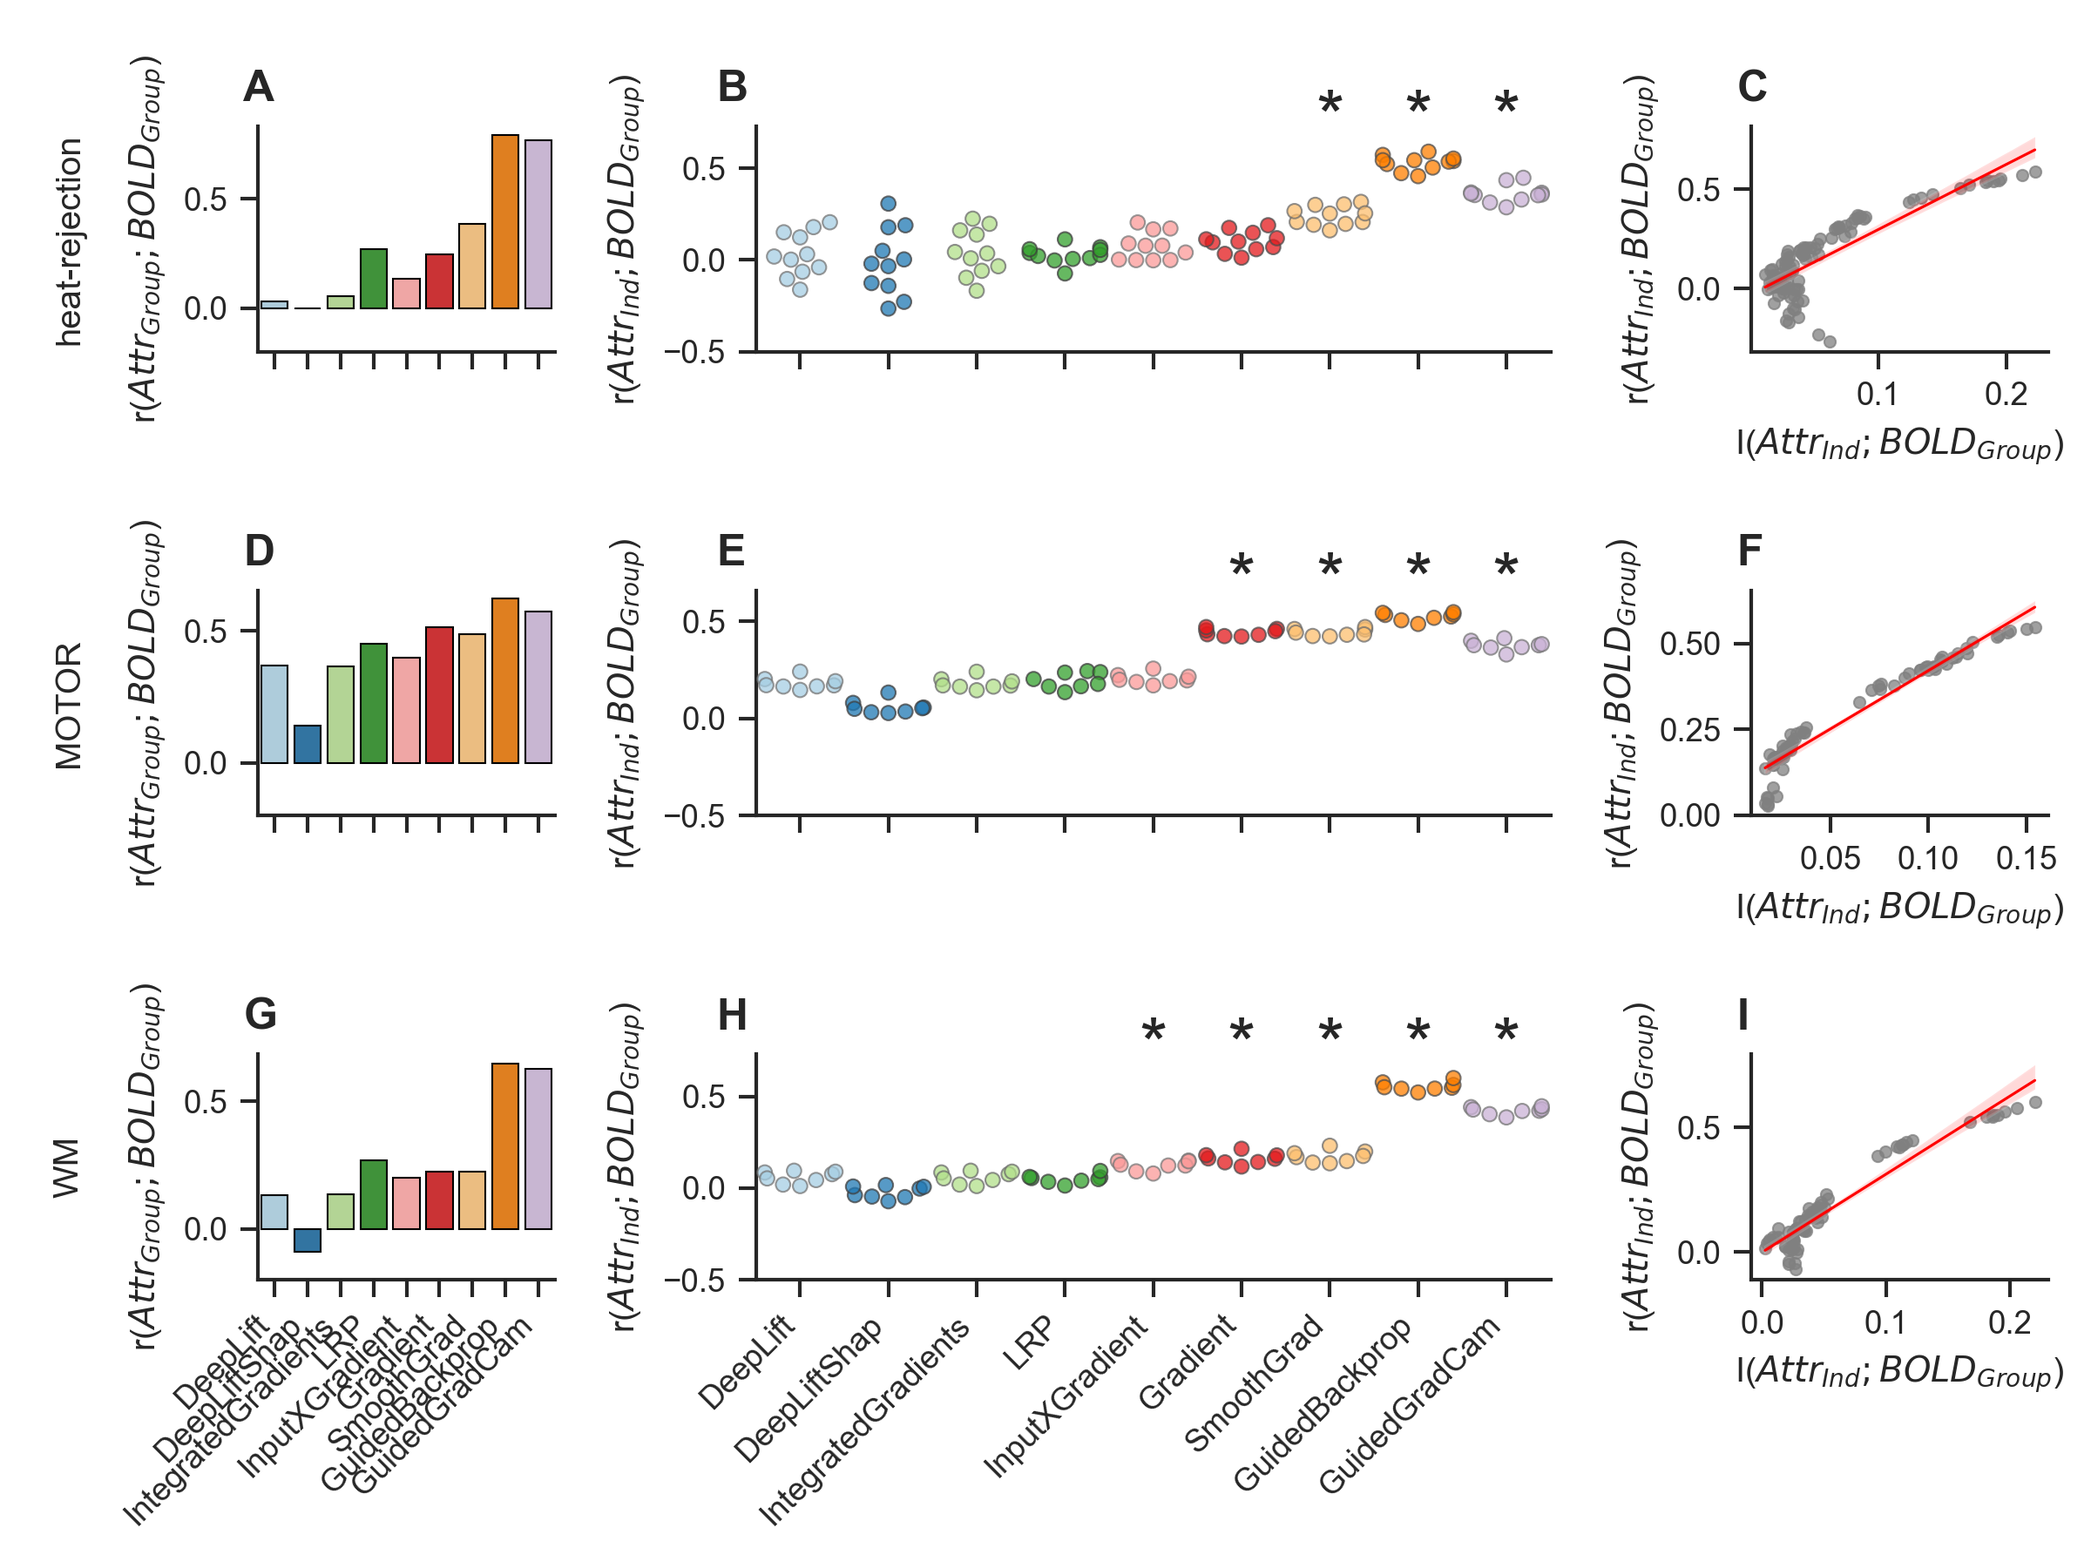
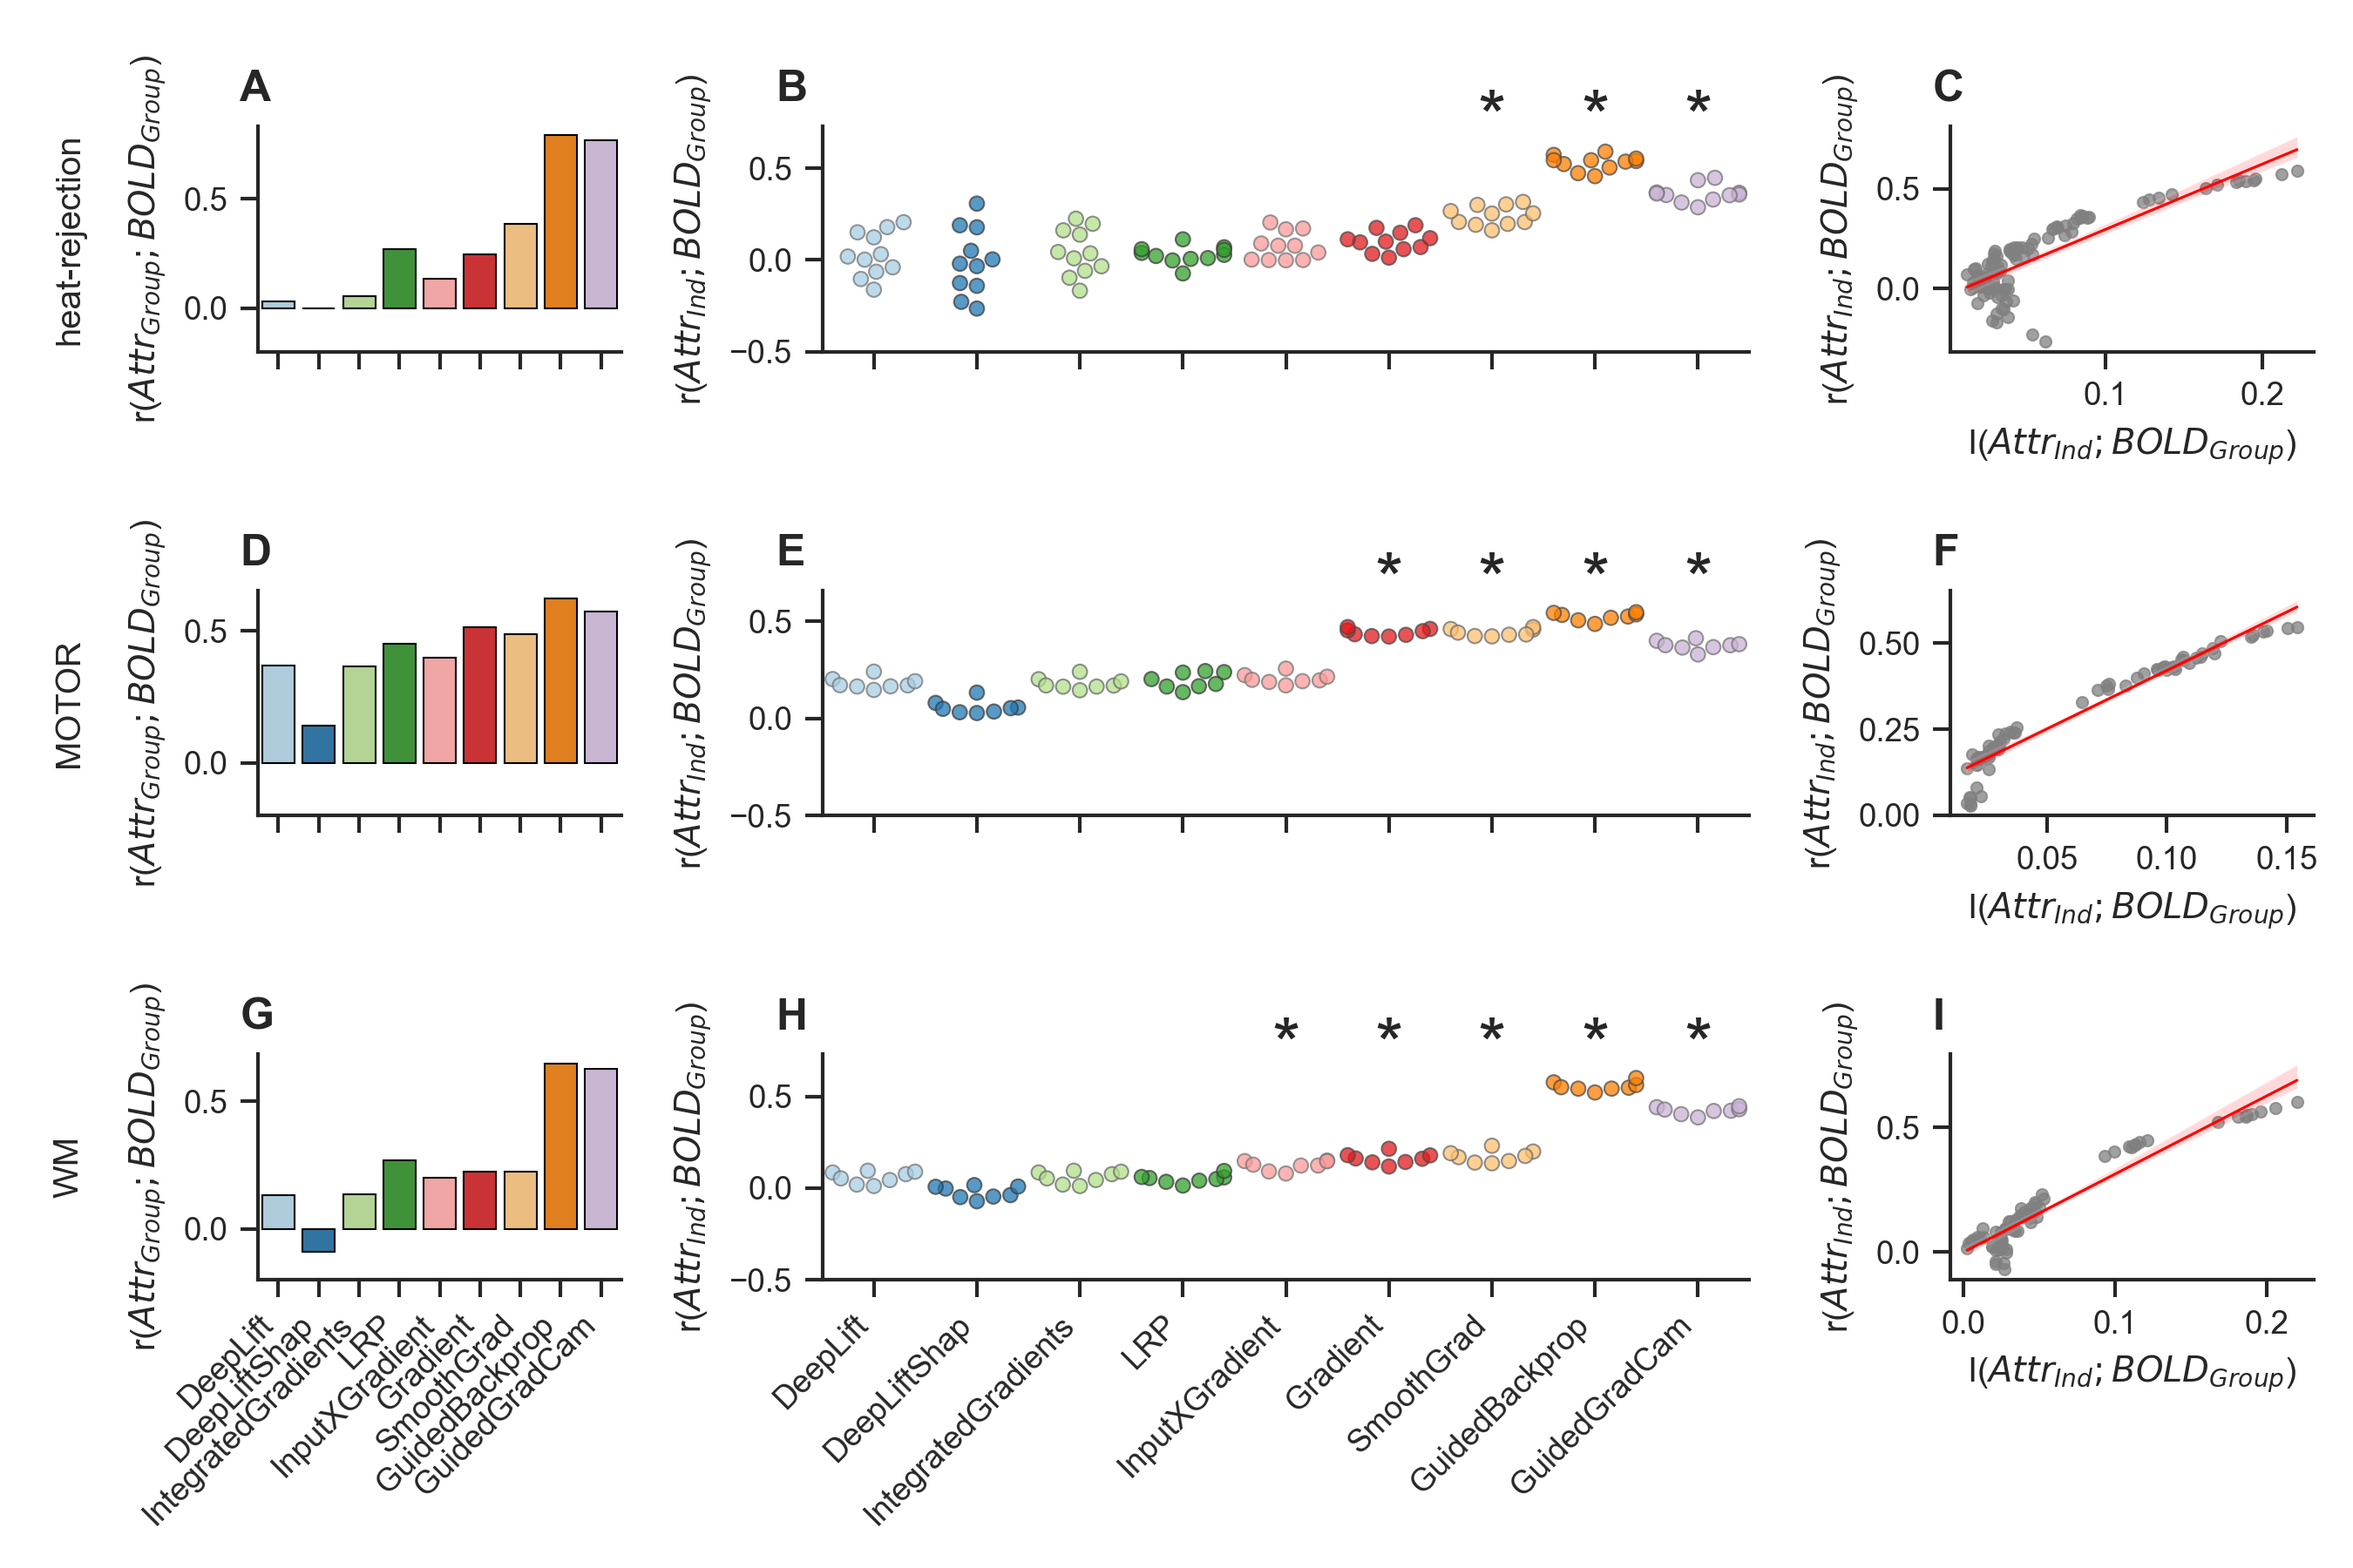
increased figure width to better fit xticklabels

diff --git a/scripts/sfig_brain-map-correlation-similarities.py b/scripts/sfig_brain-map-correlation-similarities.py
@@ -38,7 +38,7 @@ def sfig_brain_map_correlation_similarity(config=None) -> None:
         DEEF
         GHHI
         """,
-        figsize=(8, 6),
+        figsize=(9, 6),
         dpi=300
     )
 
